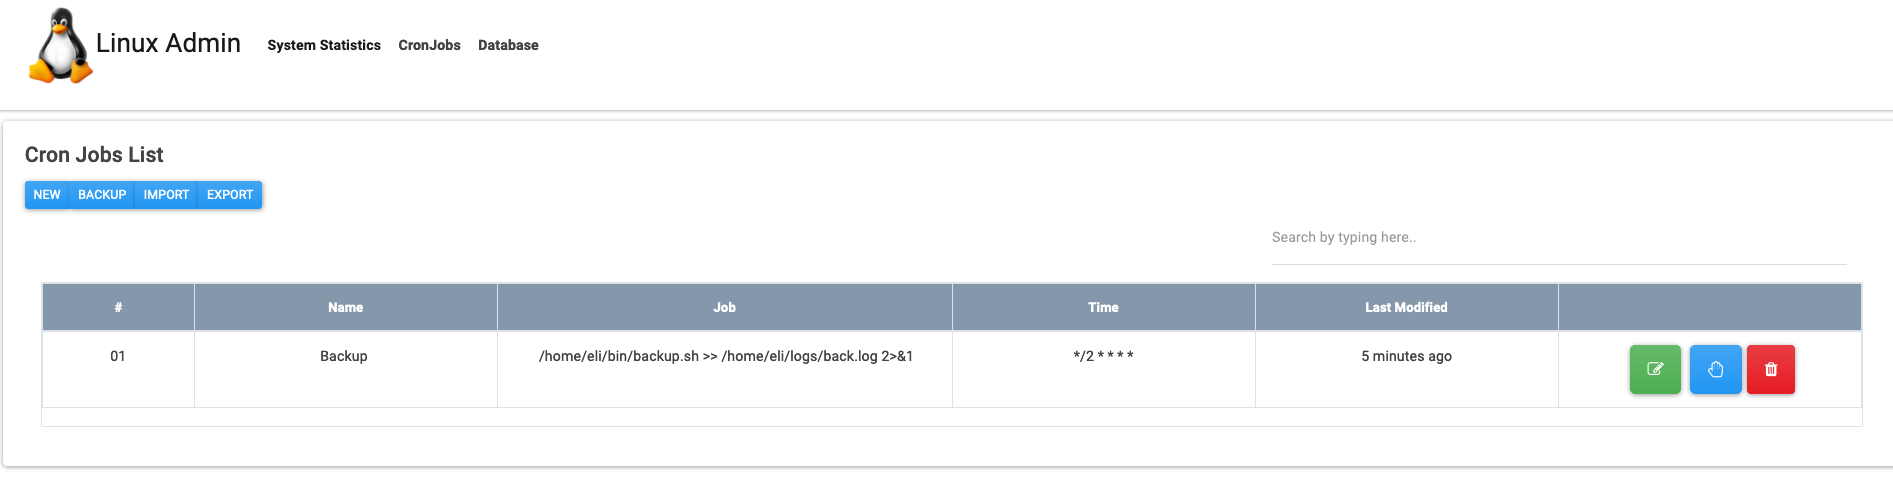
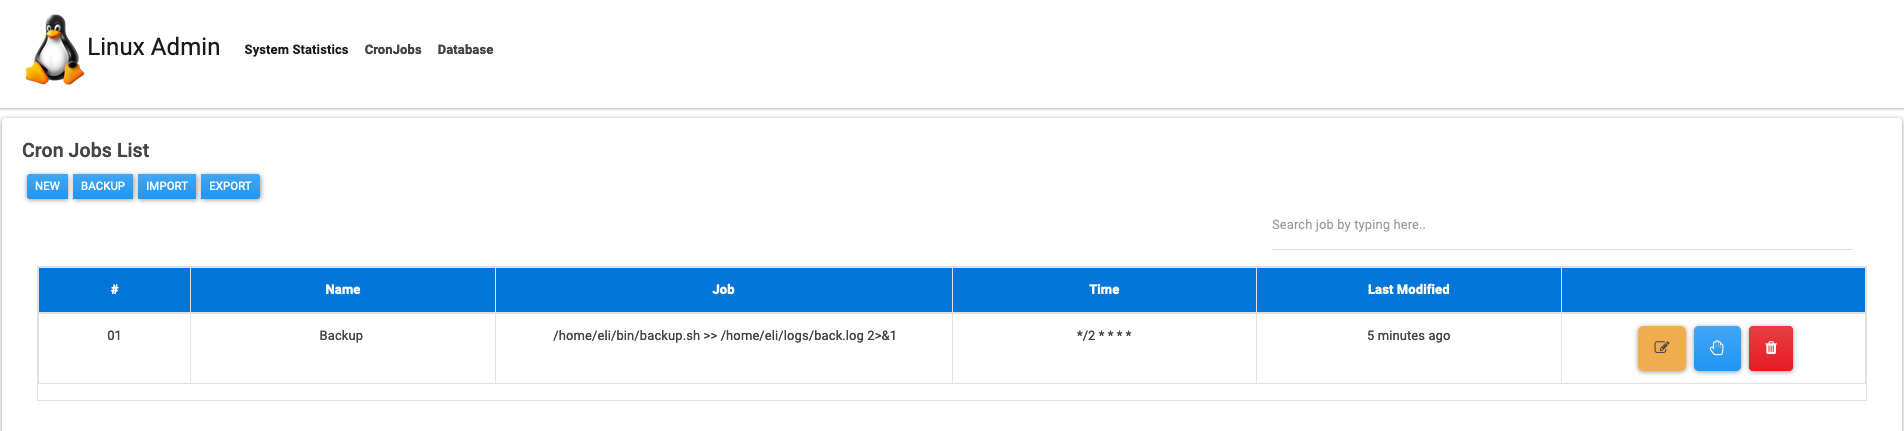
Modified cronjob table header
updated read me and updated cronjob table header by changing the color to primary.

diff --git a/templates/cronjobs.html b/templates/cronjobs.html
@@ -288,9 +288,9 @@
                 <div class="form-group pull-right col-lg-4"><input type="text" class="search form-control" placeholder="Search job by typing here.."></div><span class="counter pull-right"></span>
                 <div class="table-responsive table-bordered table table-hover table-bordered results">
                     <table class="table table-bordered table-hover">
-                        <thead class="bill-header cs">
+                        <thead style="background-color: #0275d8;color:white;">
                             <tr>
-                                <th id="trs-hd" class="col-lg-1">#</th>
+                                <th id="trs-hd" class="col-lg-1" >#</th>
                                 <th id="trs-hd" class="col-lg-2">Name</th>
                                 <th id="trs-hd" class="col-lg-3">Job</th>
                                 <th id="trs-hd" class="col-lg-2">Time</th>
